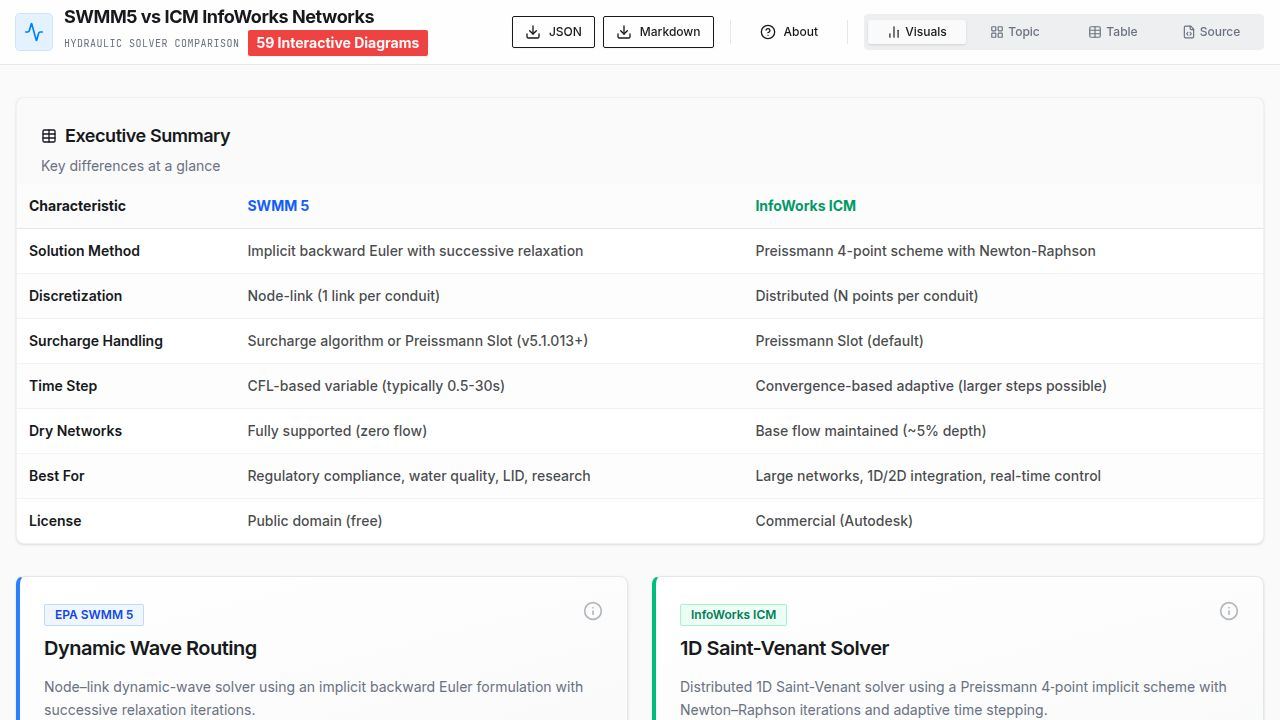
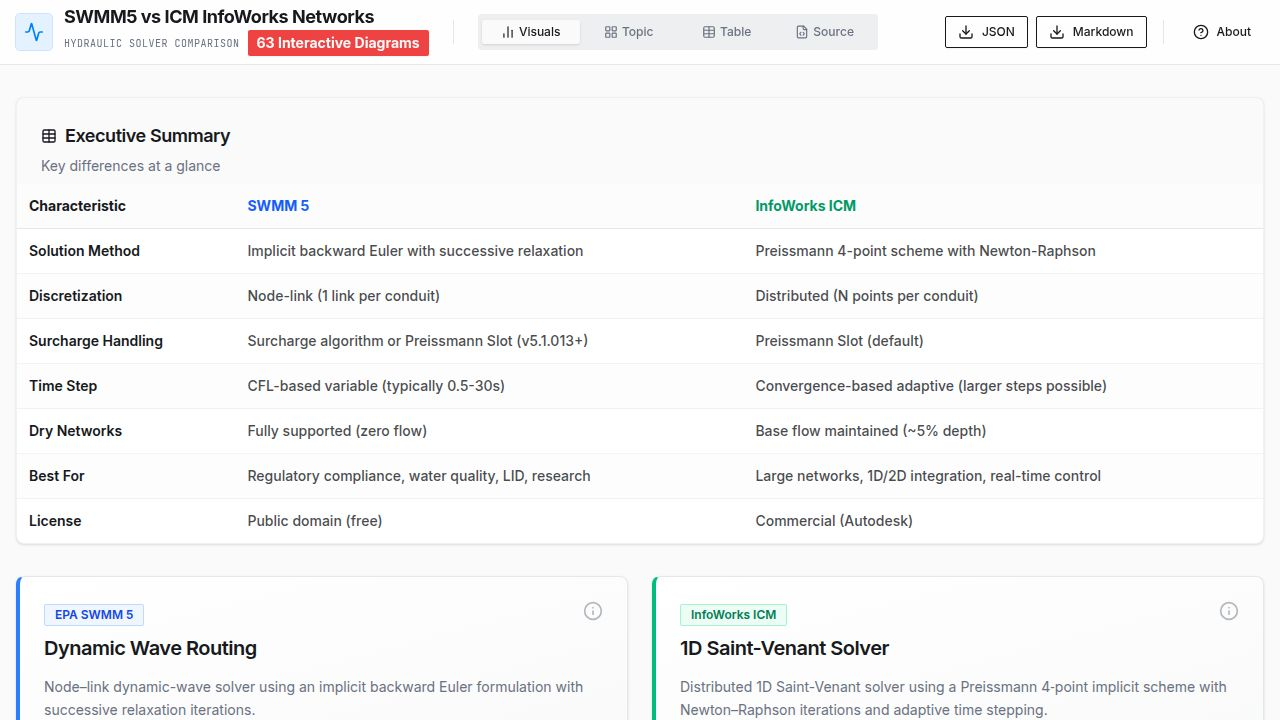
Improve visibility of related diagrams in table view
Enhance the Table view in `dashboard.tsx` to make related diagram buttons more prominent by adjusting button variants, sizes, and adding a badge to indicate the number of available diagrams for each topic.

Replit-Commit-Author: Agent
Replit-Commit-Session-Id: 5b81d055-9c16-4af7-9787-48380cdaf35a
Replit-Commit-Checkpoint-Type: full_checkpoint
Replit-Commit-Event-Id: 0c042367-6a8c-4c75-8c94-d44aa3025c82
Replit-Commit-Screenshot-Url: https://storage.googleapis.com/screenshot-production-us-central1/2a707dae-af1b-4a4d-b422-ffcd7bd3aade/5b81d055-9c16-4af7-9787-48380cdaf35a/HACHwgw
Replit-Helium-Checkpoint-Created: true

Changed region(s): [[0.4062, 0.0306, 0.9688, 0.0917], [0.2812, 0.0306, 0.3125, 0.0611], [0.1875, 0.0306, 0.2188, 0.0611]]

diff --git a/client/src/pages/dashboard.tsx b/client/src/pages/dashboard.tsx
@@ -862,22 +862,29 @@ export default function Dashboard() {
                       className={`grid grid-cols-[250px_1fr_1fr] border-b border-border/50 last:border-0 hover:bg-muted/20 transition-colors ${index % 2 === 0 ? 'bg-card' : 'bg-card/50'}`}
                     >
                       <div className="p-4 text-sm font-medium text-foreground/80 space-y-2">
-                        <span>{topic.label}</span>
+                        <div className="flex items-center gap-2">
+                          <span>{topic.label}</span>
+                          {TOPIC_DIAGRAM_MAP[topic.key] && (
+                            <Badge variant="secondary" className="text-[9px] px-1.5 py-0">
+                              {TOPIC_DIAGRAM_MAP[topic.key].length} diagram{TOPIC_DIAGRAM_MAP[topic.key].length > 1 ? 's' : ''}
+                            </Badge>
+                          )}
+                        </div>
                         {TOPIC_DIAGRAM_MAP[topic.key] && (
-                          <div className="flex flex-wrap gap-1 mt-2">
+                          <div className="flex flex-wrap gap-1 pt-1">
                             {TOPIC_DIAGRAM_MAP[topic.key].map((diag, idx) => (
                               <Button 
                                 key={idx}
-                                variant="ghost" 
+                                variant="outline" 
                                 size="sm" 
-                                className="h-5 text-[10px] px-1.5 gap-0.5"
+                                className="h-6 text-[10px] px-2 gap-1 bg-primary/5 hover:bg-primary/10 border-primary/20"
                                 onClick={() => {
                                   setActiveView("visuals");
                                   setActiveCategory(diag.category);
                                 }}
                                 data-testid={`button-table-diagram-${topic.key}-${idx}`}
                               >
-                                <BarChart2 className="h-2.5 w-2.5" />
+                                <BarChart2 className="h-3 w-3 text-primary" />
                                 {diag.label}
                               </Button>
                             ))}
